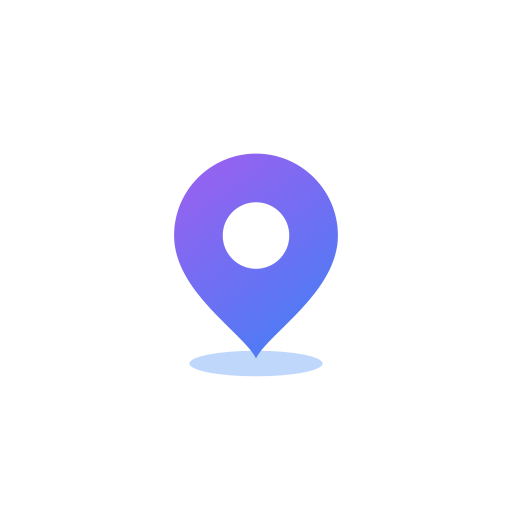
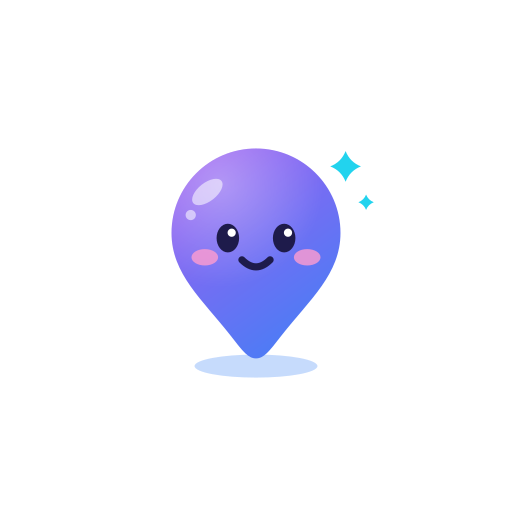
place-map-nu.vercel.app

diff --git a/scripts/src/generate-brand.ts b/scripts/src/generate-brand.ts
@@ -29,61 +29,110 @@ const WHITE = '#ffffff'
 
 // --------------------------------------------------------------------- logo
 //
-// The brand sheet's mark, drawn in a 100-unit box: a map pin filled with the
-// violet-to-blue gradient, its centre cut clean through, over a soft shadow.
-//
-// The cut-out is a second subpath with fill-rule="evenodd" rather than a circle
-// painted in the background colour, so the hole is genuinely transparent - the
-// same file then works on white, on navy and over a photo.
+// The mascot, drawn in a 100-unit box: a plump map pin in the brand sheet's
+// violet-to-blue gradient, with a happy face where the pin's hole used to be,
+// a glossy highlight, rosy cheeks and a little cyan twinkle - over a soft
+// shadow. Everything outside the pin stays transparent, so the same file works
+// on white, on navy and over a photo.
 
 /**
- * Pin: head circle centred (50,42) r32, drawn down to a point at (50,90).
- *
- * The proportions are measured off the brand sheet rather than chosen: the
- * head is 80% of the mark's height there, and the hole is 41% of the head.
- * An earlier version was a taller teardrop - head 64% of the height - which
- * read as a generic map pin rather than as this one.
+ * Pin: head circle centred (50,41) r33, sides curving down to a rounded tip
+ * at (50,90). The round head and soft tip are most of what makes it read as a
+ * character rather than as a generic map marker - a needle-sharp point looks
+ * like a tool.
  */
-const PIN_BODY = 'M50 90 C45 80 18 64 18 42 A32 32 0 1 1 82 42 C82 64 55 80 50 90 Z'
-/** The hole, as a subpath: two arcs, so evenodd cuts it out of the body. */
-const PIN_HOLE = 'M63 42 A13 13 0 1 0 37 42 A13 13 0 1 0 63 42 Z'
+const PIN_BODY =
+  'M50 90 C47 90 45 87.5 40 81 C29 67 17 57 17 41 A33 33 0 1 1 83 41 ' +
+  'C83 57 71 67 60 81 C55 87.5 53 90 50 90 Z'
 
-const GRADIENT_ID = 'brand'
+/** Eyes: tall ovals, set wide and low on the head - the classic cute ratio. */
+const EYE = { y: 43, dx: 11, rx: 4.4, ry: 5.6 } as const
+/** The smile, between and just below the eyes. */
+const SMILE = 'M44.5 51.5 Q50 57 55.5 51.5'
+
+/** Two eyes as one path, so a mask can cut them out in a single shape. */
+const eyePath = (rx: number, ry: number) =>
+  [50 - EYE.dx, 50 + EYE.dx]
+    .map((cx) => `M${cx - rx} ${EYE.y} A${rx} ${ry} 0 1 0 ${cx + rx} ${EYE.y} A${rx} ${ry} 0 1 0 ${cx - rx} ${EYE.y} Z`)
+    .join(' ')
 
 /** The gradient runs top-left to bottom-right, as on the sheet. */
 const gradient = (id: string) =>
-  `<defs><linearGradient id="${id}" x1="18" y1="6" x2="82" y2="94" gradientUnits="userSpaceOnUse">` +
+  `<linearGradient id="${id}" x1="18" y1="6" x2="82" y2="94" gradientUnits="userSpaceOnUse">` +
   `<stop offset="0" stop-color="${L.gradientFrom}"/><stop offset="1" stop-color="${L.gradientTo}"/>` +
-  `</linearGradient></defs>`
+  `</linearGradient>`
 
-/** The full mark, for every surface big enough to show the shadow. */
-function logoMark(id = GRADIENT_ID): string {
+/** A soft light from the top left, so the head looks round rather than flat. */
+const sheen = (id: string) =>
+  `<radialGradient id="${id}" cx="36" cy="22" r="40" gradientUnits="userSpaceOnUse">` +
+  `<stop offset="0" stop-color="${L.shine}" stop-opacity="0.32"/>` +
+  `<stop offset="1" stop-color="${L.shine}" stop-opacity="0"/>` +
+  `</radialGradient>`
+
+/** Four-point twinkle centred on (x,y). */
+const twinkle = (x: number, y: number, r: number) => {
+  const w = r * 0.28
+  return (
+    `<path d="M${x} ${y - r} Q${x + w} ${y - w} ${x + r} ${y} Q${x + w} ${y + w} ${x} ${y + r} ` +
+    `Q${x - w} ${y + w} ${x - r} ${y} Q${x - w} ${y - w} ${x} ${y - r} Z" fill="${L.sparkle}"/>`
+  )
+}
+
+/** Eyes, catch-lights, cheeks and smile. */
+function face(): string {
+  const catchLights = [50 - EYE.dx, 50 + EYE.dx]
+    .map((cx) => `<circle cx="${cx + 1.5}" cy="${EYE.y - 2.1}" r="1.6" fill="${L.shine}"/>`)
+    .join('')
+  const cheeks = [50 - 20, 50 + 20]
+    .map((cx) => `<ellipse cx="${cx}" cy="50.5" rx="5.2" ry="3.2" fill="${L.cheek}" opacity="0.8"/>`)
+    .join('')
+  return (
+    cheeks +
+    `<path d="${eyePath(EYE.rx, EYE.ry)}" fill="${L.face}"/>` +
+    catchLights +
+    `<path d="${SMILE}" fill="none" stroke="${L.face}" stroke-width="2.8" stroke-linecap="round"/>`
+  )
+}
+
+/** The full mark, for every surface big enough to show the details. */
+function logoMark(id = 'brand'): string {
   return [
-    gradient(id),
-    // The pin floats: a soft ellipse grounds it, as in the brand sheet.
-    // Wide and close under the tip, as on the sheet, where it is about four
-    // fifths of the head's width. A narrow ellipse reads as a smudge.
-    `<ellipse cx="50" cy="92" rx="26" ry="5" fill="${L.shadow}" opacity="0.5"/>`,
-    `<path d="${PIN_BODY} ${PIN_HOLE}" fill="url(#${id})" fill-rule="evenodd"/>`,
+    `<defs>${gradient(id)}${sheen(`${id}-sheen`)}</defs>`,
+    // The pin floats: a soft ellipse grounds it.
+    `<ellipse cx="50" cy="93" rx="24" ry="4.5" fill="${L.shadow}" opacity="0.45"/>`,
+    `<path d="${PIN_BODY}" fill="url(#${id})"/>`,
+    `<path d="${PIN_BODY}" fill="url(#${id}-sheen)"/>`,
+    // Gloss on the crown: a tilted streak and a dot, like light on a balloon.
+    `<ellipse cx="31" cy="25" rx="7" ry="3.6" transform="rotate(-38 31 25)" fill="${L.shine}" opacity="0.55"/>`,
+    `<circle cx="24.5" cy="34" r="2" fill="${L.shine}" opacity="0.55"/>`,
+    face(),
+    twinkle(85, 15, 6),
+    twinkle(93, 29, 3),
   ].join('')
 }
 
 /**
- * At 16 px the shadow turns into a grey smudge under the pin, so the smallest
- * tab size drops it and keeps the mark itself.
+ * At 16 px the shadow, cheeks and twinkles turn into smudges, so the smallest
+ * tab size keeps just the pin and two big eyes - still a face, still cute.
  */
 function logoMini(id = 'brand-mini'): string {
-  return [gradient(id), `<path d="${PIN_BODY} ${PIN_HOLE}" fill="url(#${id})" fill-rule="evenodd"/>`].join('')
+  return (
+    `<defs>${gradient(id)}</defs>` +
+    `<path d="${PIN_BODY}" fill="url(#${id})"/>` +
+    `<path d="${eyePath(6, 7.5)}" fill="${L.face}"/>`
+  )
 }
 
 /**
  * One flat silhouette for Android's themed icons: the system recolours this
- * layer, so the hole must be transparency rather than another colour.
+ * layer, so the face must be cut out as transparency rather than painted.
  */
 function logoSilhouette(id: string): string {
   return (
     `<defs><mask id="${id}">` +
-    `<path d="${PIN_BODY} ${PIN_HOLE}" fill="white" fill-rule="evenodd"/>` +
+    `<path d="${PIN_BODY}" fill="white"/>` +
+    `<path d="${eyePath(EYE.rx + 0.4, EYE.ry + 0.4)}" fill="black"/>` +
+    `<path d="${SMILE}" fill="none" stroke="black" stroke-width="3.4" stroke-linecap="round"/>` +
     `</mask></defs>` +
     `<rect width="100" height="100" fill="${WHITE}" mask="url(#${id})"/>`
   )
@@ -119,9 +168,9 @@ const fullBleed = (background: string, art: string, scale: number) =>
 /**
  * Android adaptive foreground: transparent, artwork inside the centre safe
  * zone. Launchers crop this layer to a circle, squircle or square, and only a
- * circle of about 61% diameter survives all of them. The pin's furthest points
- * are its tip (50,90) and the crown of its head (50,10), both 40 units from
- * centre, which land at 20% against a 30.5% limit.
+ * circle of about 61% diameter survives all of them. The art's furthest point
+ * is the twinkle's outer tip, about 54 units from centre, which lands at 27%
+ * against a 30.5% limit.
  */
 const ADAPTIVE_SCALE = 0.5
 
@@ -208,21 +257,14 @@ function openGraph(): string {
     `<linearGradient id="bg" x1="0" y1="0" x2="${W}" y2="${H}" gradientUnits="userSpaceOnUse">`,
     `<stop offset="0" stop-color="${light.bannerFrom}"/><stop offset="1" stop-color="${light.bannerTo}"/>`,
     `</linearGradient>`,
-    // In the pin's own 100-unit space, not the card's: the mark is drawn
-    // inside a scaled group, so userSpaceOnUse resolves against that group.
-    // Page coordinates here put the whole gradient off the shape and the pin
-    // came out flat violet.
-    `<linearGradient id="mark" x1="18" y1="6" x2="82" y2="94" gradientUnits="userSpaceOnUse">`,
-    `<stop offset="0" stop-color="${L.gradientFrom}"/><stop offset="1" stop-color="${L.gradientTo}"/>`,
-    `</linearGradient>`,
     `</defs>`,
     `<rect width="${W}" height="${H}" fill="url(#bg)"/>`,
 
-    // The mark, drawn at 260 units on the 100-unit box it is designed in.
-    `<g transform="translate(150 185) scale(2.6)">`,
-    `<ellipse cx="50" cy="92" rx="26" ry="5" fill="${L.shadow}" opacity="0.5"/>`,
-    `<path d="${PIN_BODY} ${PIN_HOLE}" fill="url(#mark)" fill-rule="evenodd"/>`,
-    `</g>`,
+    // The mascot, drawn at 260 units on the 100-unit box it is designed in.
+    // Its gradients are userSpaceOnUse, so they resolve in the scaled group's
+    // own 100-unit space and follow the art - page coordinates would put the
+    // gradient off the shape and the pin would come out flat violet.
+    `<g transform="translate(150 185) scale(2.6)">${logoMark('mark')}</g>`,
 
     `<text x="470" y="330" font-family="Segoe UI, Helvetica, Arial, sans-serif" font-size="96" font-weight="700" fill="${light.ink}">Place-Map</text>`,
     `<text x="474" y="392" font-family="Segoe UI, Helvetica, Arial, sans-serif" font-size="38" fill="${light.muted}">Find places. Hangout easily.</text>`,

diff --git a/packages/shared/src/brand.ts b/packages/shared/src/brand.ts
@@ -123,6 +123,14 @@ export const logoColors = {
   gradientFrom: '#a35df0',
   gradientTo: '#3b82f6',
   shadow: '#81aff9',
+  /** The mascot's eyes and smile: deep indigo rather than black, softer on the gradient. */
+  face: '#1e1b4b',
+  /** Rosy cheeks. */
+  cheek: '#ff9ccf',
+  /** The gloss on the head and the catch-light in each eye. */
+  shine: '#ffffff',
+  /** The little twinkle beside the head: the brand's cyan. */
+  sparkle: '#22d3ee',
 } as const
 
 /**
